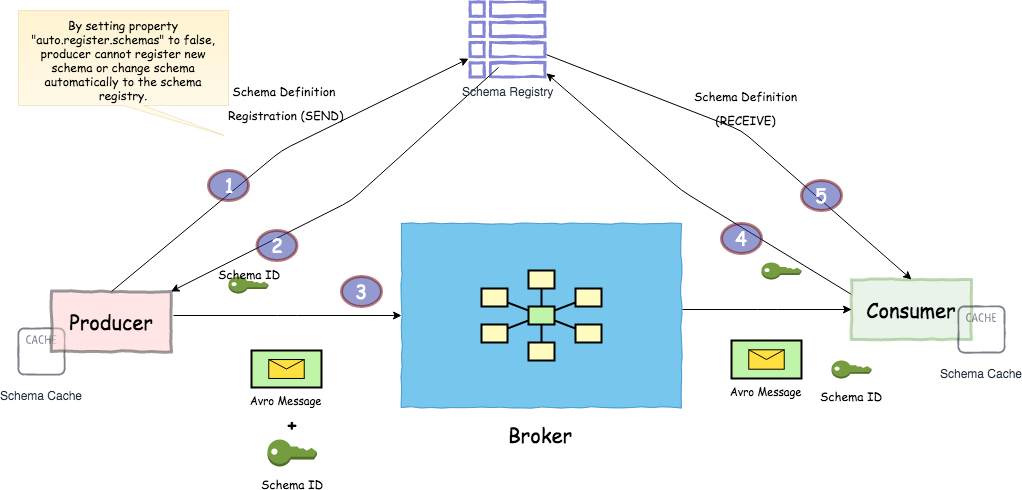
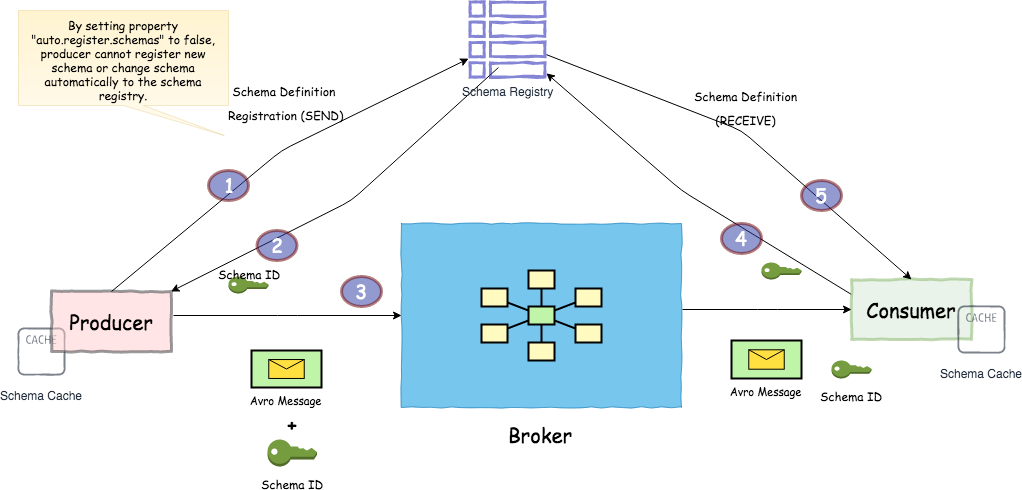
adding drawing for schema registry

diff --git a/ReadMe/kafka/kafka.md b/ReadMe/kafka/kafka.md
@@ -394,7 +394,7 @@ Schemas can be applied on keys, and values in the message.
 
 `Think of these schemas as WSDL in web service environment (WSDL is an XML document that describes a web service methods, request message schema and response message schema).`
 
-
+![Confluent Schema Registry Block Diagram](https://github.com/codebased/learning/blob/master/ReadMe/kafka/drawio/Confluent%20Schema%20Registry.png?raw=true)
 
 Future Topics:
 
